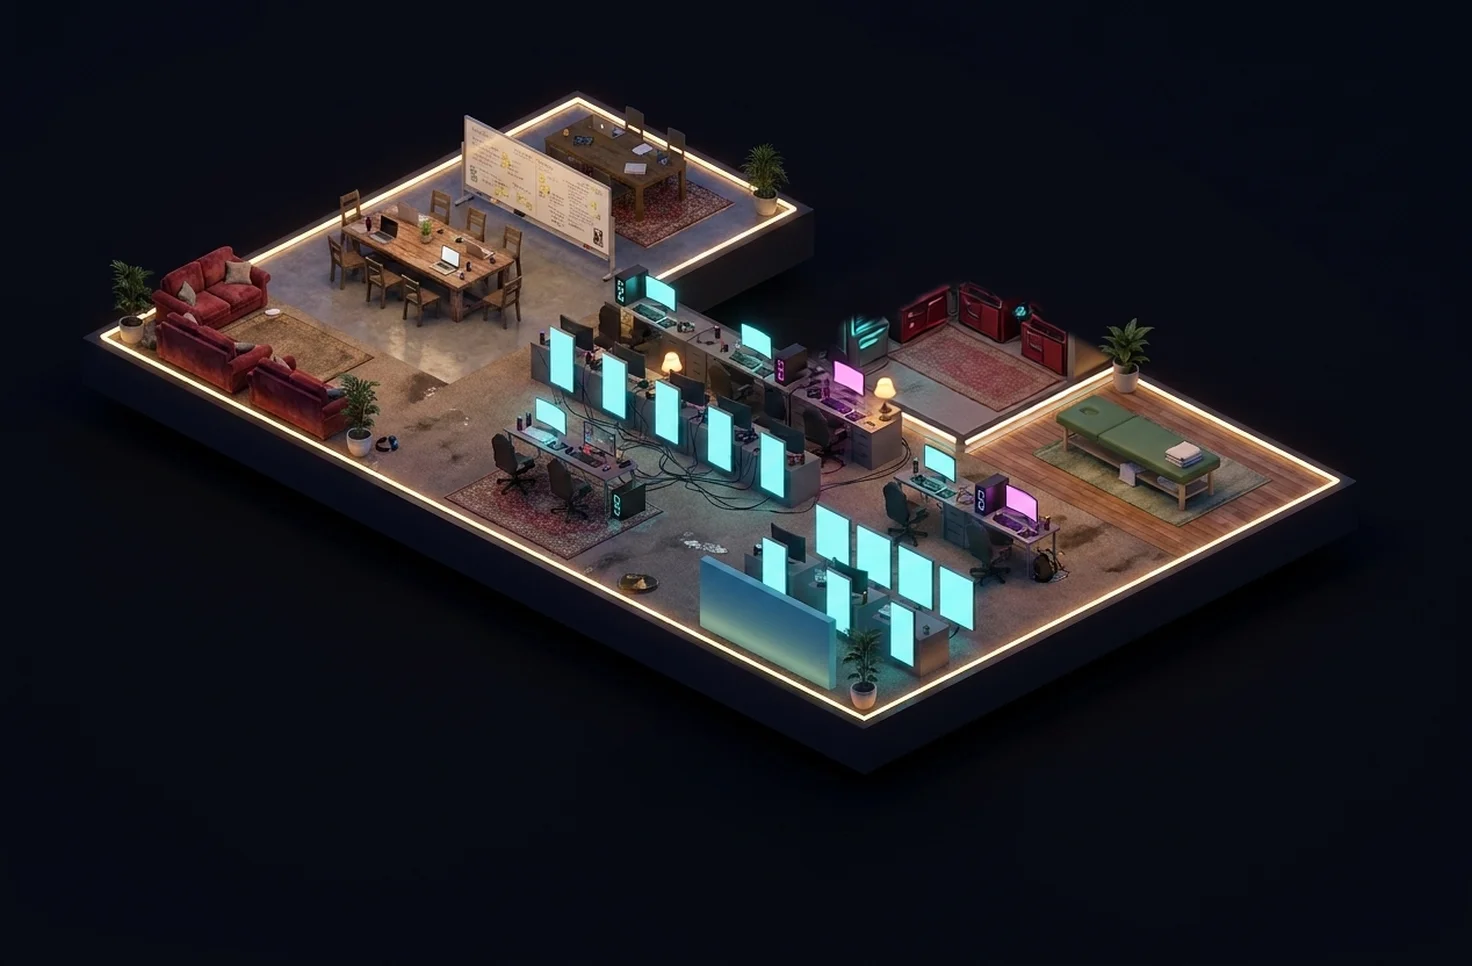
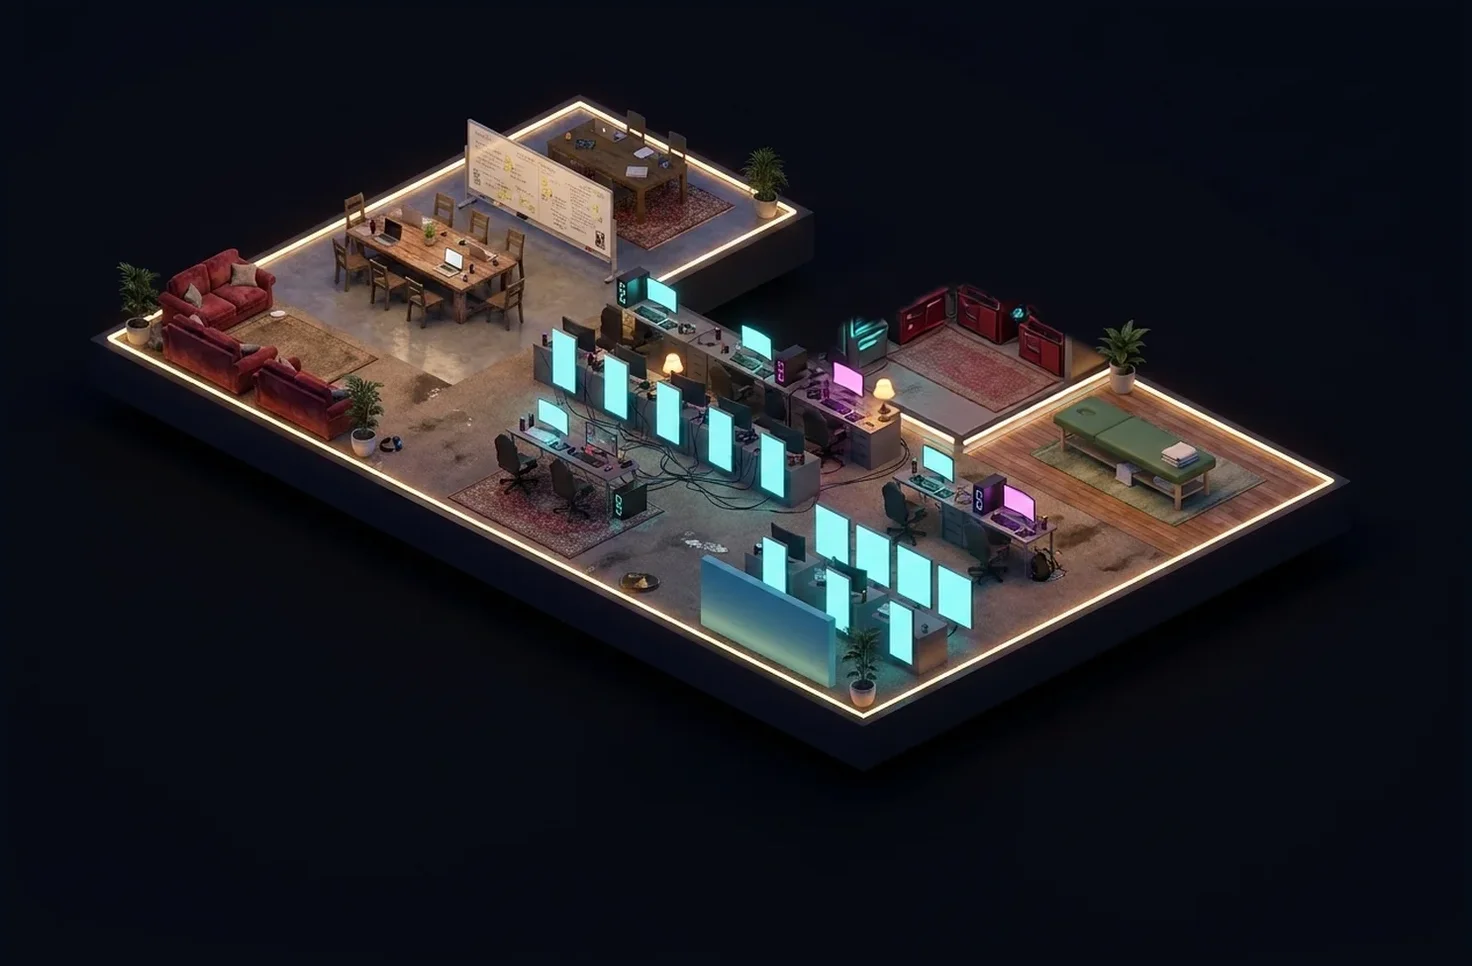
Office: authoritative vector room borders over the paint + 1% art align
The v2 paint kept the building footprint but drifted interior LED
lines (the footprint gate never checked interiors) - hover outlines
visibly disagreed with painted borders. Fix follows the pipelines own
philosophy: paint supplies texture/furniture/mood; the lines that must
match the hotspots are drawn as a vector overlay from the SAME plan
geometry (warm LED styling, screen-blended, door gaps). Borders and
hotspots now agree by construction, and future art regenerations lose
their hardest constraint (interior-line precision).

Also scripts/align_painted.py: estimates global drift from building
masks and warps the painted set once (applied: scale 0.990, IoU
0.896->0.908). Next art pass should prompt WITHOUT floor LED strips so
the paints own (drifted) lines disappear entirely.

diff --git a/src/esports_sim/web/static/office.js b/src/esports_sim/web/static/office.js
@@ -322,6 +322,30 @@ async function office(v) {
     officeComposeScene(built, facilities).then((url) => {
       if (url) img.setAttribute("href", url);
     });
+    // Room borders are drawn as a VECTOR overlay from the plan — the
+    // paint supplies texture and furniture, but the lines that must
+    // match the hotspots come from the same geometry as the hotspots.
+    // (Generated interiors drift; ours can't.)
+    const { exterior, interior } = edgeSegments(rooms);
+    for (const w of interior) {
+      const mid = (w.lo + w.hi) / 2;
+      const half = Math.min(plan.render.door_w, (w.hi - w.lo) * 0.5) / 2;
+      for (const [a, b] of [[w.lo, mid - half], [mid + half, w.hi]]) {
+        if (b - a < 0.3) continue;
+        const [p1, p2] = segPoints({ ...w, lo: a, hi: b });
+        osvg("line", {
+          x1: p1[0], y1: p1[1], x2: p2[0], y2: p2[1],
+          class: "office-wall-in painted-line",
+        }, svg);
+      }
+    }
+    for (const w of exterior) {
+      const [p1, p2] = segPoints(w);
+      osvg("line", {
+        x1: p1[0], y1: p1[1], x2: p2[0], y2: p2[1],
+        class: "office-wall-crown painted-line",
+      }, svg);
+    }
   } else {
     // Geometry mode: the guide look, interactive.
     const { exterior, interior } = edgeSegments(rooms);

diff --git a/src/esports_sim/web/static/office.css b/src/esports_sim/web/static/office.css
@@ -65,6 +65,22 @@
 .office-stage.painted .office-sub { fill: #aeb6c8; }
 .office-stage.painted .office-label.lot { fill: #aeb6c8; }
 
+/* Vector room borders over the paint: warm LED look that matches the
+   art's strips, additive-blended so they sit IN the scene. These are the
+   authoritative lines — they share geometry with the hotspots. */
+.office-wall-in.painted-line {
+  stroke: rgba(255, 214, 150, .55);
+  stroke-width: .42;
+  mix-blend-mode: screen;
+  filter: drop-shadow(0 0 .7px rgba(255, 200, 130, .8));
+}
+.office-wall-crown.painted-line {
+  stroke: rgba(255, 214, 150, .75);
+  stroke-width: .55;
+  mix-blend-mode: screen;
+  filter: drop-shadow(0 0 1px rgba(255, 200, 130, .9));
+}
+
 /* -- walls ------------------------------------------------------------------ */
 
 .office-wall-out {

diff --git a/scripts/align_painted.py b/scripts/align_painted.py
@@ -1,0 +1,127 @@
+"""Align the painted office scenes to the guide geometry.
+
+Generated art drifts a few percent in scale/position from the guide it
+was painted over (the structure gate tolerates it; hover outlines do
+not). The plan/guide is the source of truth, so this script warps the
+ART: estimate a uniform-scale + translation transform from the building
+masks of (guide base, painted base), then apply that ONE transform to
+all painted files — they share the base's coordinate frame because annex
+regions were composited onto the accepted base.
+
+Usage:
+    .venv-win\\Scripts\\python.exe scripts\\align_painted.py           # dry run
+    .venv-win\\Scripts\\python.exe scripts\\align_painted.py --apply   # overwrite
+"""
+
+from __future__ import annotations
+
+import sys
+from pathlib import Path
+
+import numpy as np
+from PIL import Image
+
+ROOT = Path(__file__).resolve().parents[1]
+GUIDES = ROOT / "assets" / "office" / "guides"
+PAINTED = ROOT / "assets" / "office" / "painted"
+
+FILES = [
+    "base",
+    "analytics_suite_l1", "analytics_suite_l3",
+    "marketing_office_l1", "marketing_office_l3",
+    "training_center_l1", "training_center_l3",
+]
+
+MASK_THR = 34  # luminance above the near-black background
+DOWN = 6  # estimate on a downscaled grid for speed
+
+
+def building_mask(img: Image.Image, size: tuple[int, int]) -> np.ndarray:
+    g = img.convert("L").resize(size, Image.BILINEAR)
+    return np.asarray(g, dtype=np.uint8) > MASK_THR
+
+
+def iou(a: np.ndarray, b: np.ndarray) -> float:
+    inter = np.logical_and(a, b).sum()
+    union = np.logical_or(a, b).sum()
+    return inter / union if union else 0.0
+
+
+def warp_mask(mask: np.ndarray, s: float, dx: float, dy: float) -> np.ndarray:
+    """Scale around center + translate, on a small boolean grid."""
+    h, w = mask.shape
+    img = Image.fromarray((mask * 255).astype(np.uint8))
+    sw, sh = max(1, round(w * s)), max(1, round(h * s))
+    scaled = img.resize((sw, sh), Image.BILINEAR)
+    canvas = Image.new("L", (w, h), 0)
+    ox = round((w - sw) / 2 + dx)
+    oy = round((h - sh) / 2 + dy)
+    canvas.paste(scaled, (ox, oy))
+    return np.asarray(canvas) > 127
+
+
+def estimate(guide: Image.Image, painted: Image.Image) -> tuple[float, float, float, float, float]:
+    w, h = guide.size
+    size = (w // DOWN, h // DOWN)
+    gm = building_mask(guide, size)
+    pm = building_mask(painted, size)
+    base_iou = iou(gm, pm)
+
+    best = (1.0, 0.0, 0.0, base_iou)
+    # Coarse → fine search over (scale, dx, dy) applied to the PAINTED mask.
+    grids = [
+        (np.arange(0.94, 1.061, 0.01), range(-8, 9, 2), range(-8, 9, 2)),
+        (None, None, None),  # refined below from the coarse winner
+    ]
+    s0, dx0, dy0, _ = best
+    for gi, (ss, xs, ys) in enumerate(grids):
+        if gi == 1:
+            s0, dx0, dy0, _ = best
+            ss = np.arange(s0 - 0.008, s0 + 0.0081, 0.002)
+            xs = range(int(dx0) - 2, int(dx0) + 3)
+            ys = range(int(dy0) - 2, int(dy0) + 3)
+        for s in ss:
+            for dx in xs:
+                for dy in ys:
+                    v = iou(gm, warp_mask(pm, float(s), dx, dy))
+                    if v > best[3]:
+                        best = (float(s), float(dx), float(dy), v)
+    s, dx, dy, refined_iou = best
+    return s, dx * DOWN, dy * DOWN, base_iou, refined_iou
+
+
+def apply_transform(path: Path, s: float, dx: float, dy: float) -> None:
+    img = Image.open(path).convert("RGB")
+    w, h = img.size
+    sw, sh = round(w * s), round(h * s)
+    scaled = img.resize((sw, sh), Image.LANCZOS)
+    # Sample the background color from a corner so exposed borders blend.
+    bg = img.getpixel((4, 4))
+    canvas = Image.new("RGB", (w, h), bg)
+    canvas.paste(scaled, (round((w - sw) / 2 + dx), round((h - sh) / 2 + dy)))
+    canvas.save(path, quality=85)
+
+
+def main() -> None:
+    apply = "--apply" in sys.argv
+    guide = Image.open(GUIDES / "base.png")
+    painted = Image.open(PAINTED / "base.webp")
+    if guide.size != painted.size:
+        painted = painted.resize(guide.size, Image.LANCZOS)
+    s, dx, dy, before, after = estimate(guide, painted)
+    print(f"estimated: scale={s:.3f} dx={dx:+.0f}px dy={dy:+.0f}px")
+    print(f"building-mask IoU: {before:.3f} -> {after:.3f}")
+    if after <= before + 0.005:
+        print("no meaningful improvement available — leaving files untouched")
+        return
+    if not apply:
+        print("dry run (pass --apply to overwrite the painted set)")
+        return
+    for name in FILES:
+        p = PAINTED / f"{name}.webp"
+        apply_transform(p, s, dx, dy)
+        print(f"aligned {p.name}")
+
+
+if __name__ == "__main__":
+    main()
